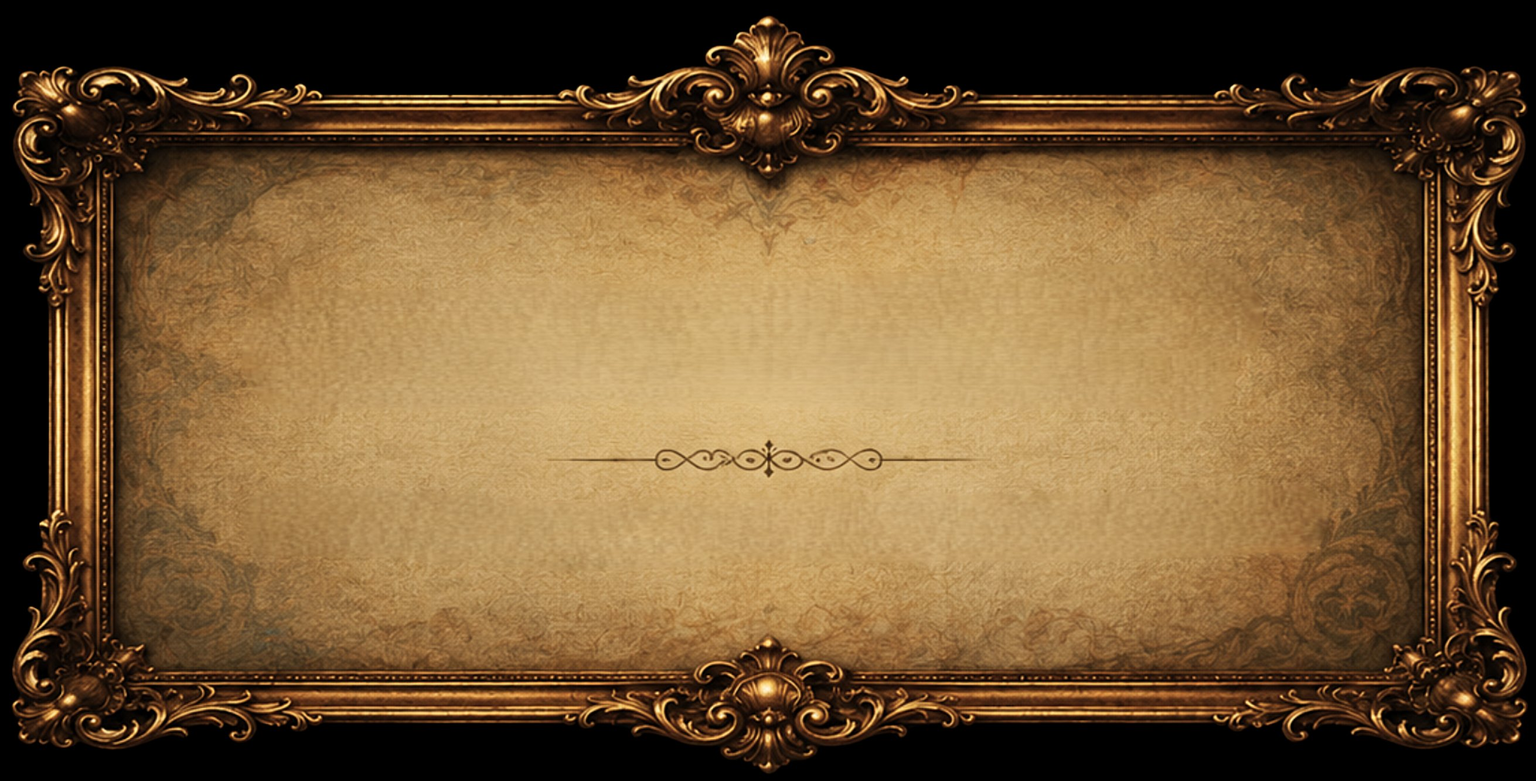
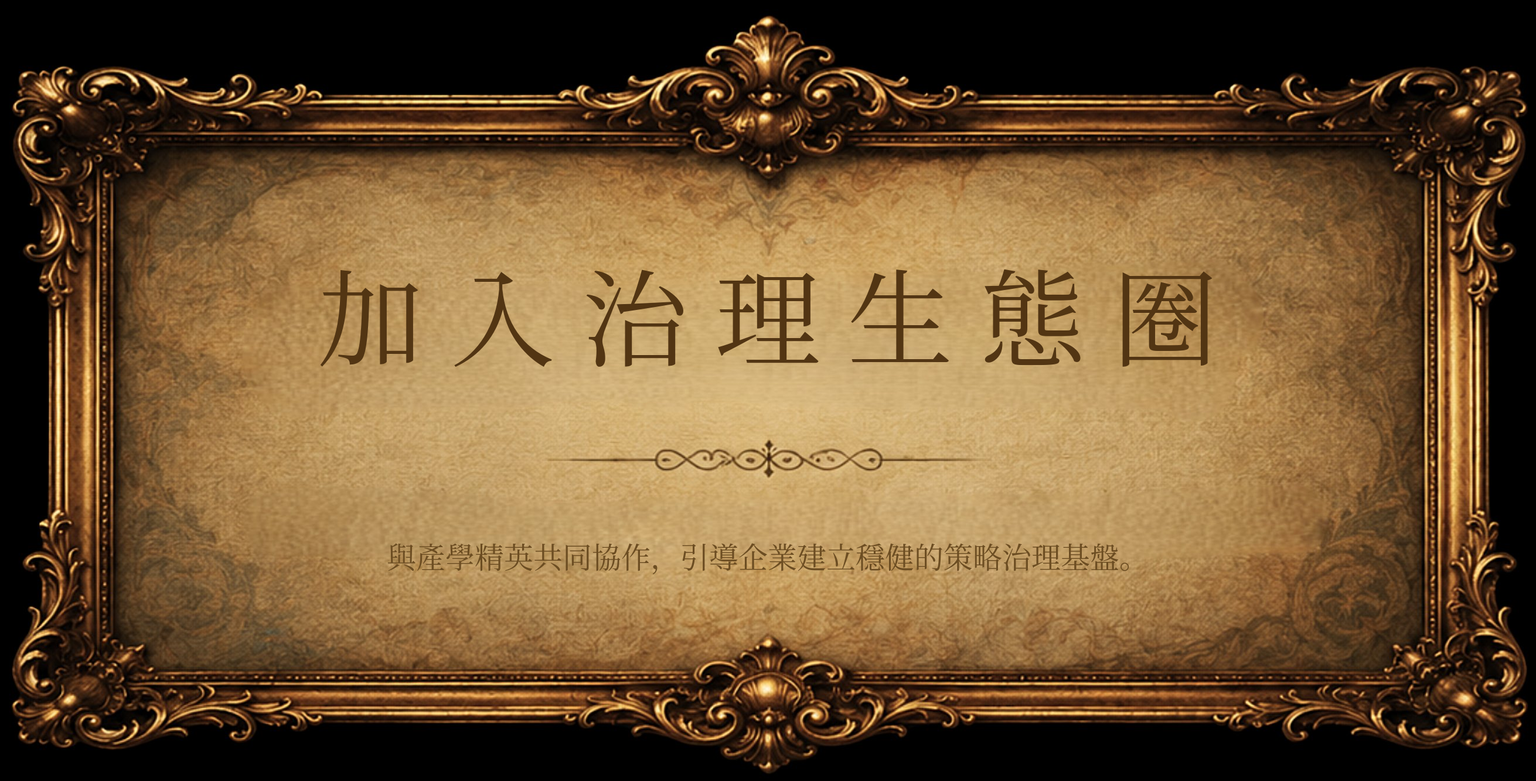
feat: use static composite image for CTA frame

diff --git a/src/pages/GCSDA.tsx b/src/pages/GCSDA.tsx
@@ -1,4 +1,4 @@
-import { motion } from "motion/react";
+import { motion } from "motion/react";
 import { useState, useRef } from "react";
 import { Landmark, Users, Scroll } from "lucide-react";
 import { Accordion, AccordionContent, AccordionItem, AccordionTrigger } from "@/components/ui/accordion";
@@ -142,6 +142,7 @@ export default function GCSDA({ onContactOpen }: GCSDAPProps) {
             animate={{ opacity: 1, y: 0 }}
             transition={{ duration: 1.5, ease: [0.16, 1, 0.3, 1] }}
             className="flex flex-col items-center w-full"
+            style={{ paddingTop: "60px" }}
           >
             {/* The primary logo already contains the slogan; do not repeat textual slogans in the UI layer. */}
             <div className="w-full max-w-[650px] flex justify-center mb-16 px-4">
@@ -329,30 +330,9 @@ export default function GCSDA({ onContactOpen }: GCSDAPProps) {
         <section className="py-32 border-t border-white/5 text-center bg-black -mx-6 md:-mx-24 px-6 md:px-24">
           <div className="max-w-4xl mx-auto flex flex-col items-center gap-10">
 
-            {/* 大油畫框 - 加入治理生態圈 */}
-            <div style={{ position: "relative", display: "inline-block", width: "100%", maxWidth: "780px" }}>
-              <img src="/images/gcsda_002.png" alt="" style={{ width: "100%", height: "auto", display: "block" }} />
-              <div style={{
-                position: "absolute", top: "0", left: "0", right: "0", bottom: "0",
-                display: "flex", flexDirection: "column", alignItems: "center", justifyContent: "center",
-                padding: "18% 14% 22%",
-                textAlign: "center",
-              }}>
-                <h2 style={{
-                  color: "#2a1a05", fontSize: "clamp(22px, 4vw, 52px)", fontWeight: 700,
-                  letterSpacing: "0.2em", fontFamily: "serif",
-                  textShadow: "0 1px 3px rgba(0,0,0,0.2)",
-                  margin: "0 0 clamp(40px,6vw,80px) 0", lineHeight: 1.2, whiteSpace: "nowrap",
-                }}>
-                  加 入 治 理 生 態 圈
-                </h2>
-                <p style={{
-                  color: "#3a2005", fontSize: "clamp(11px, 1.2vw, 16px)",
-                  fontFamily: "serif", letterSpacing: "0.05em", fontWeight: 400, margin: 0, lineHeight: 1.6,
-                }}>
-                  與產學精英共同協作，引導企業建立穩健的策略治理基盤。
-                </p>
-              </div>
+            {/* 大油畫框 - 加入治理生態圈（文字已合成進圖片） */}
+            <div style={{ display: "inline-block", width: "100%", maxWidth: "780px" }}>
+              <img src="/images/gcsda_002.png" alt="加入治理生態圈" style={{ width: "100%", height: "auto", display: "block" }} />
             </div>
 
             {/* 小金框按鈕 - 申請入會諮詢 */}
